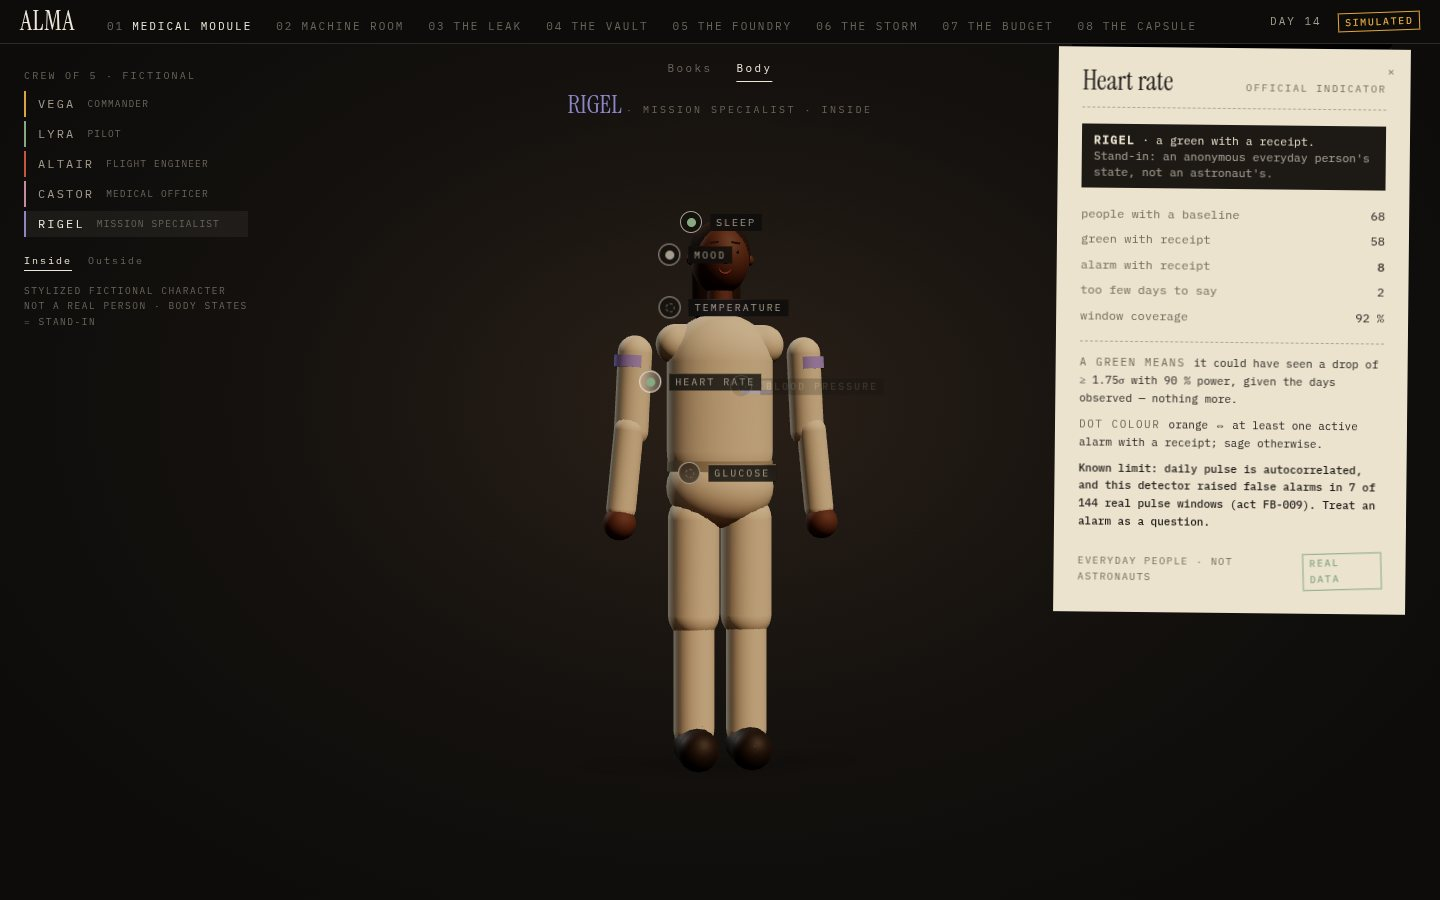
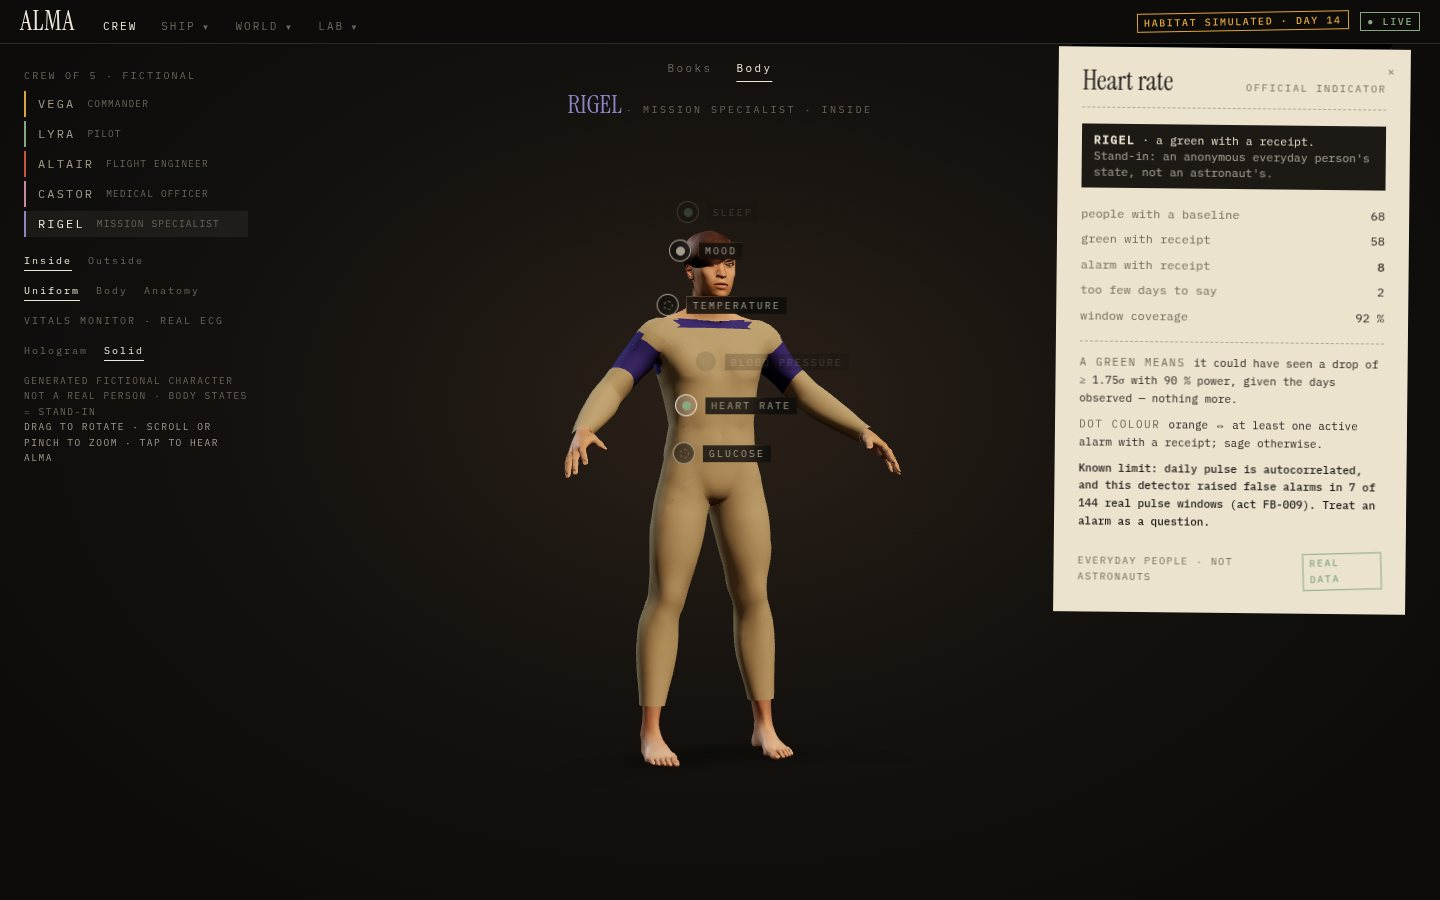
README y formulario: enlaces a la demo en vivo (Vercel) y al repo; capturas nuevas (Storm real, Frontier, anatomía real); e2e/screenshots con 11 salas

diff --git a/README.md b/README.md
@@ -2,6 +2,8 @@
 
 Health-monitoring software for astronauts (NASA Space Apps 2026 · Challenge 4: *Create Health Monitoring Software for Astronauts on Space Missions*).
 
+**Live demo:** <https://alma-iota-dusky.vercel.app> · [The Storm room (real Sun, live space weather)](https://alma-iota-dusky.vercel.app/storm) · **Code:** <https://github.com/userly03/ALMA>
+
 One rule runs through everything: **no colour without a contestable rule behind it.** Every alarm prints its receipt — the exact rule, the seed that reproduces it, the hash of the preregistration it came from. Every "all clear" states what the detector could actually have seen, given the days really observed. Every experiment was sealed with a SHA-256 hash **before** it ran, and the failures are published next to the successes.
 
 ![The Medical Module: a crew member, the nine books as rings, and a paper receipt for the air book](docs/screenshots/01-medical-module.jpg)
@@ -65,6 +67,7 @@ Navigate with the top bar or the ← → keys. Everything that talks has subtitl
 | ![The Leak](docs/screenshots/04-the-leak.jpg) | ![The Vault](docs/screenshots/05-the-vault.jpg) |
 | ![The Foundry](docs/screenshots/06-the-foundry.jpg) | ![The Storm](docs/screenshots/07-the-storm.jpg) |
 | ![The Budget](docs/screenshots/08-the-budget.jpg) | ![The Capsule](docs/screenshots/09-the-capsule.jpg) |
+| ![The Frontier](docs/screenshots/10-the-frontier.jpg) | ![Real human anatomy fitted to a crew member](docs/screenshots/11-anatomy.jpg) |
 
 ### Medical Module extras (M6)
 

diff --git a/docs/submit/formulario.md b/docs/submit/formulario.md
@@ -24,6 +24,7 @@ ALMA is health-monitoring software for astronauts built around one rule: no colo
 Not astronaut data. The habitat is a labelled simulation anchored to public NASA figures. Our replication of an earlier 10/10 detection result reached 8/10 and is reported as "documented, not replicated". The variance channel failed its real-data test (9% false alarms) and is not enabled for alarms.
 
 ## Links (to be filled by the team)
-- Code repository: `<TEAM: add public repo URL>`
+- Code repository: https://github.com/userly03/ALMA  *(must be PUBLIC when submitting)*
+- Live demo: https://alma-iota-dusky.vercel.app · The Storm room: https://alma-iota-dusky.vercel.app/storm
 - Project document (PDF v0.4): `<TEAM: add link>`
 - Demo video (30–60 s): `<TEAM: add link after recording — see video-guion.md>`
